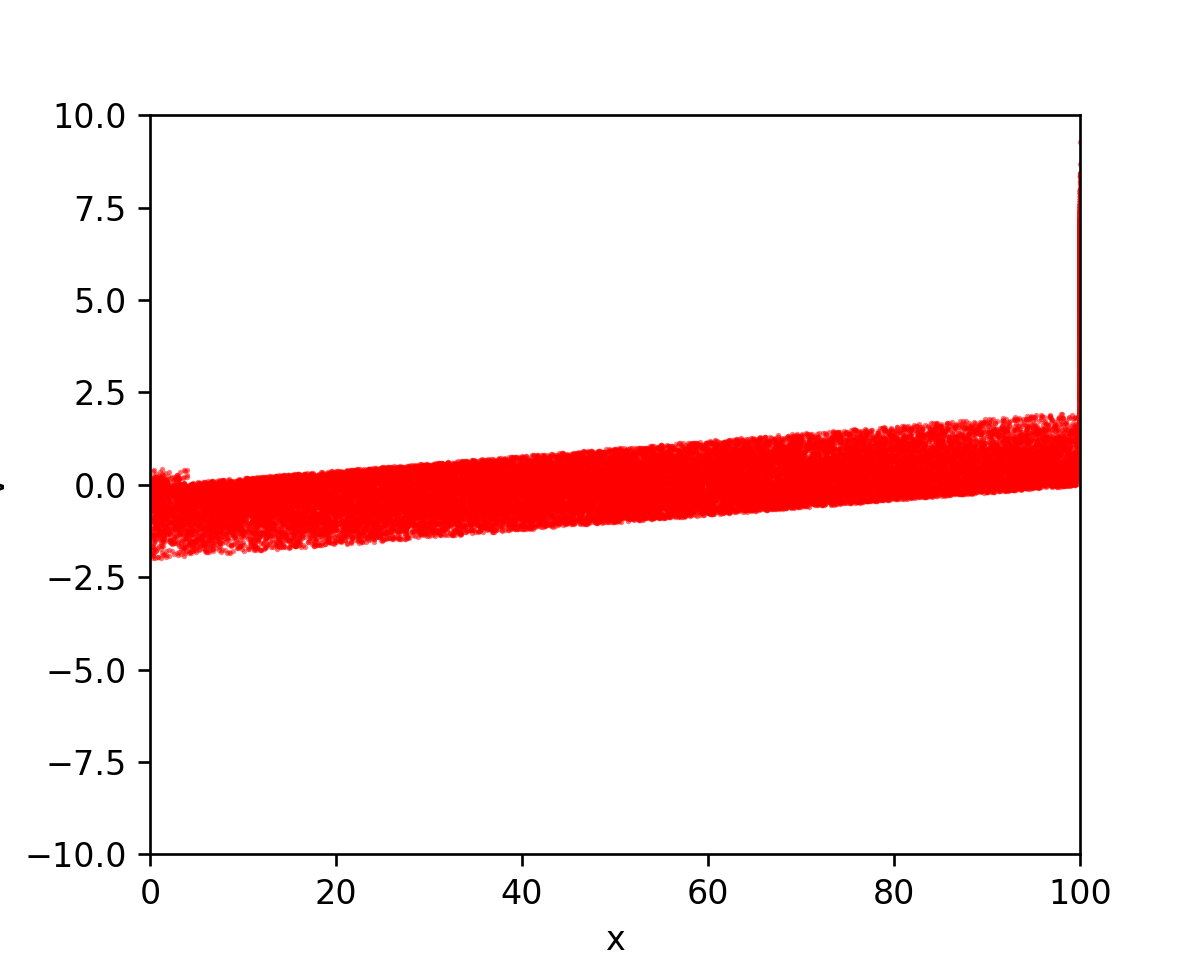
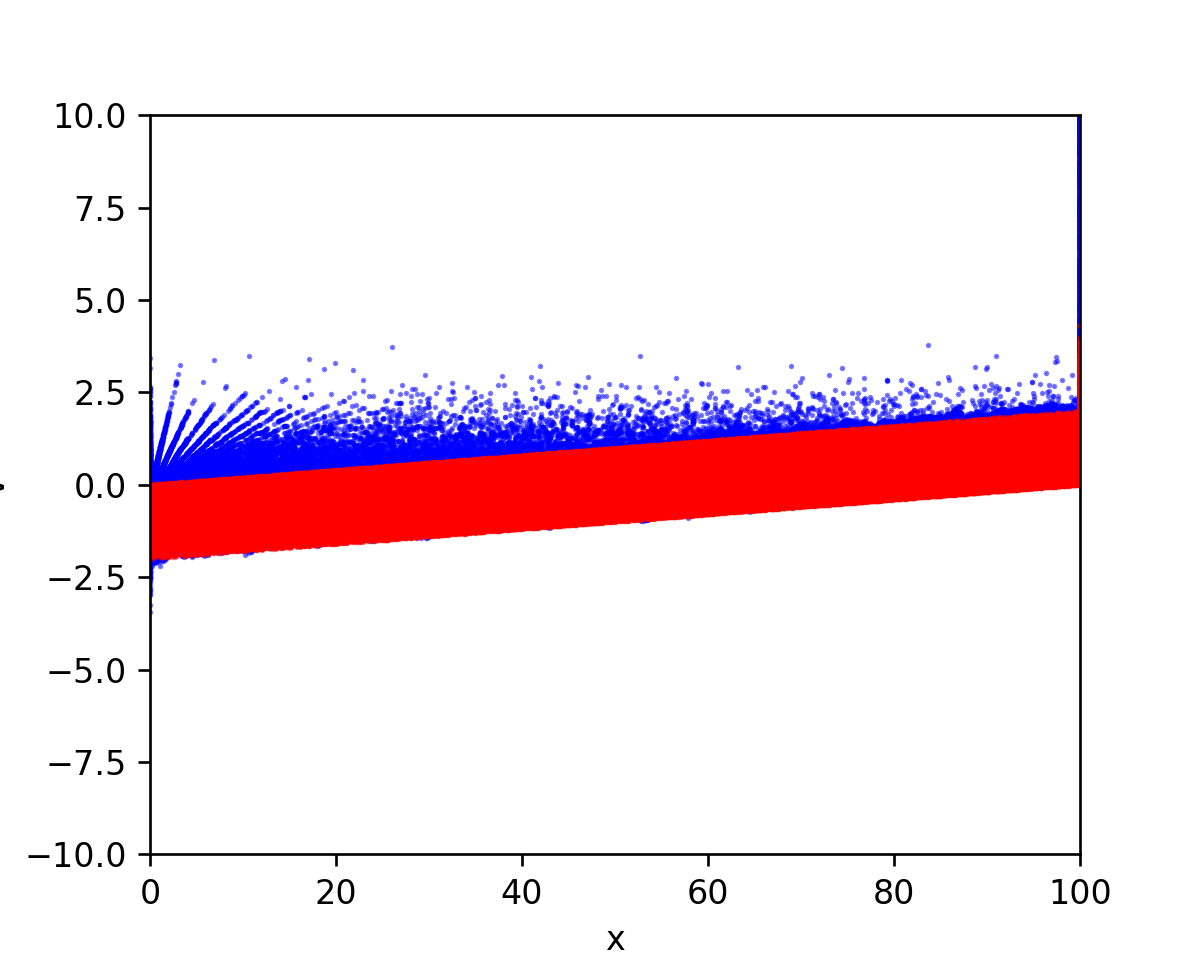
Done: particle generation and death on plasma bound, Laplacian and Gradient bounds, Todo: electrode bound

diff --git a/main.py b/main.py
@@ -39,7 +39,8 @@ def getAcc(pos_e, pos_i, Nx, boxsize, n0, Gmtx, Lmtx, Laptx, t, Vrf, w):
     mi = 73000  # ion mass
     pos = np.vstack((pos_e, pos_i))
 
-    N = pos.shape[0]
+    #N = pos_i.shape[0] - pos_e.shape[0]
+    N = pos_i.shape[0]
     dx = boxsize / Nx
     j = np.floor(pos_e / dx).astype(int)
     jp1 = j + 1
@@ -64,8 +65,6 @@ def getAcc(pos_e, pos_i, Nx, boxsize, n0, Gmtx, Lmtx, Laptx, t, Vrf, w):
 
     jp1_i[jp1_i == Nx] = Nx-1 # particle death
     j_i[j_i == Nx-1] = Nx - 2
-    #jp1_i[jp1_i == 0] = 1  # particle death
-    #j_i[j_i == -1] = 0
     #jp1_i = np.mod(jp1_i, Nx)  # periodic BC
 
     n -= np.bincount(j_i[:, 0], weights=weight_j_i[:, 0], minlength=Nx);
@@ -110,11 +109,11 @@ def main():
     """ Plasma PIC simulation """
 
     # Simulation parameters
-    N = 100000  # Number of particles. Need 10 000 000
-    Nx = 1000  # Number of mesh cells
+    N = 500000  # Number of particles. Need 10 000 000
+    Nx = 2000  # Number of mesh cells
     t = 0  # current time of the simulation
-    tEnd = 50  # time at which simulation ends
-    dt = 1  # timestep
+    tEnd = 50  # time at which simulation ends [mks]
+    dt = 1  # timestep 1mks
     boxsize = 100  # periodic domain [0,boxsize] 100 mkm
     n0 = 1  # electron number density
     #vb = 3  # beam velocity
@@ -154,8 +153,12 @@ def main():
     vals = np.vstack((-e, e))
     Gmtx = sp.spdiags(vals, diags, Nx, Nx);
     Gmtx = sp.lil_matrix(Gmtx)
-    Gmtx[0, Nx - 1] = -1
-    Gmtx[Nx - 1, 0] = 1
+    #Gmtx[0, Nx - 1] = -1
+    #Gmtx[Nx - 1, 0] = 1
+    Gmtx[0, 0] = -2
+    Gmtx[0, 1] = 2
+    Gmtx[Nx - 1, Nx - 1] = 2
+    Gmtx[Nx - 1, Nx - 2] = -2
     Gmtx /= (2 * dx)
     Gmtx = sp.csr_matrix(Gmtx)
 
@@ -170,16 +173,16 @@ def main():
     Lmtx = sp.csr_matrix(Lmtx)
 
     # Construct matrix L to computer Laplacian (2nd derivative) for Laplace (BOUNDARY CONDITIONS)
-    #diags = np.array([-1, 0, 1])
-    diags = np.array([0, 1, 2])
+    diags = np.array([-1, 0, 1])
+    #diags = np.array([0, 1, 2])
     vals = np.vstack((e, -2 * e, e))
     Laptx = sp.spdiags(vals, diags, Nx, Nx);
     Laptx = sp.lil_matrix(Laptx)
-    #Laptx[0, 0] = 1
+    Laptx[0, 0] = 1
     #Laptx[0, Nx - 1] = 0
     #Laptx[Nx - 1, 0] = 0
     #Laptx[Nx - 1, Nx - 2] = 0
-    #Laptx[Nx - 1, Nx - 1] = 1
+    Laptx[Nx - 1, Nx - 1] = 1
     Laptx /= dx ** 2
     Laptx = sp.csr_matrix(Laptx)
 
@@ -215,10 +218,11 @@ def main():
         """
 
 
-        # drift (and apply boundary conditions)
+        # drift
         pos_e += vel_e * dt
         pos_i += vel_i * dt
 
+        # boundary condition and particle death
         #pos = np.mod(pos, boxsize) # periodic boundary condition
 
         pos_e[pos_e >= boxsize] = boxsize - 0.5 * dx # particle death
@@ -229,8 +233,6 @@ def main():
 
         pos_i[pos_i >= boxsize] = boxsize - 0.5 * dx # particle death
         bi = np.where(pos_i <= 0)
-        # bi = pos_i <= 0
-        #obji = bi.astype(int)
         pos_i = np.delete(pos_i, bi[0], axis = 0)
         vel_i = np.delete(vel_i, bi[0], axis=0)
         acc_i = np.delete(acc_i, bi[0], axis=0)
